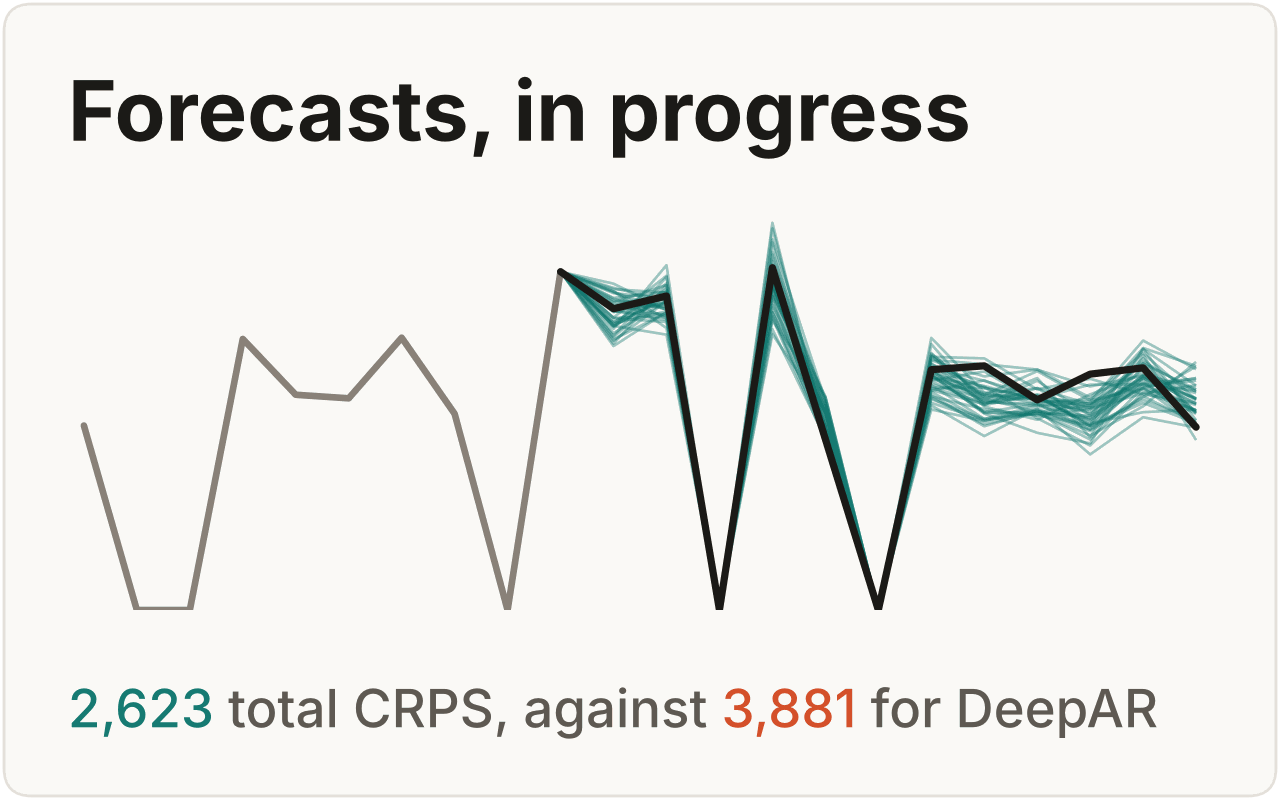
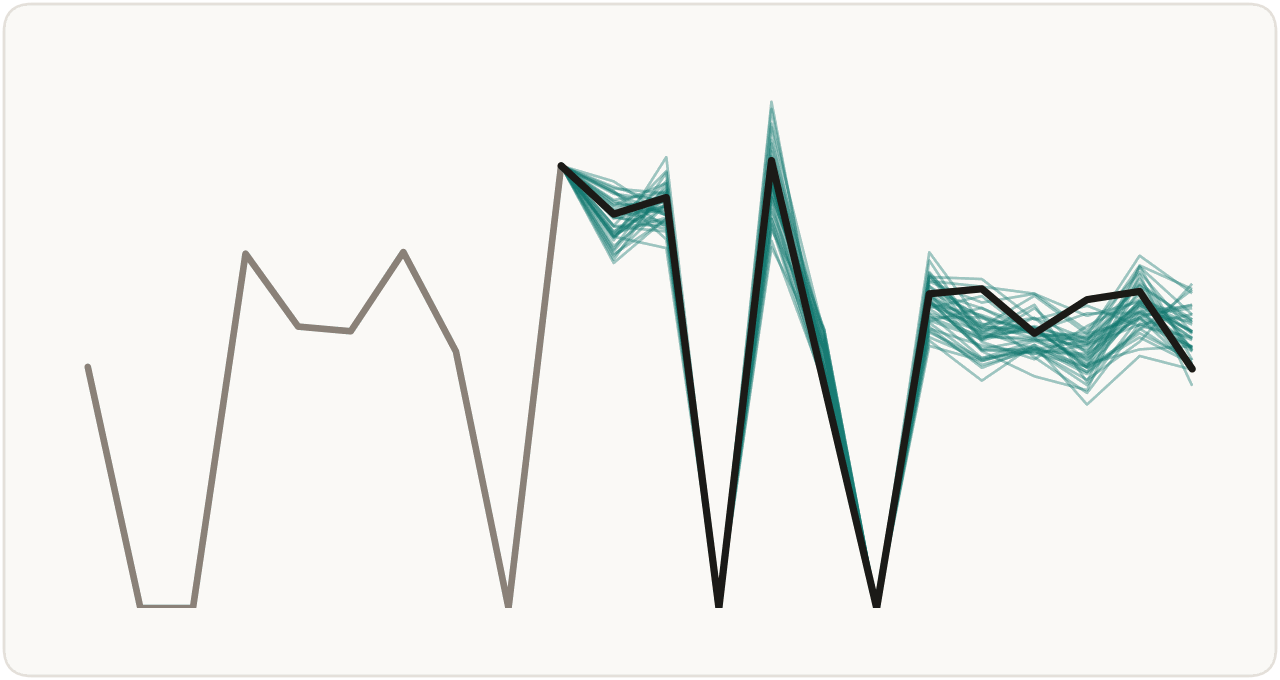
README figures: text-free gallery thumbnails, teal lit path, CRPS in the shapes footer
From the fresh-eyes review of the assembled README:
- Gallery thumbnails no longer bake in a title and a number. The gallery's link
  text and caption already carry both, readable on a phone; baked text
  repeated them at about 10 px. The mark gets the whole card (6.4 x 3.4 in).
- The architecture diagram lights its path in teal, since clay marks a
  baseline in every other figure.
- The shapes footer scores claims by CRPS (0.538 against 0.576). The NLL there
  mostly measured how narrow the head makes the spike at fixed amounts.

Claude-Session: https://claude.ai/code/session_01Ut1RAiHeEN9bUy93D2Wya3

diff --git a/examples/readme/style.py b/examples/readme/style.py
@@ -71,7 +71,7 @@ ARTIFACTS = Path(__file__).resolve().parent / "artifacts"
 
 DPI = 200
 WIDTH = 13.8  # inches; GitHub shows a full-width figure at about a third of its pixels
-THUMB_SIZE = (6.4, 4.0)
+THUMB_SIZE = (6.4, 3.4)
 MAX_BYTES = 450_000
 
 
@@ -170,8 +170,6 @@ class Fonts:
     panel: FontProperties
     mono: FontProperties
     mono_bold: FontProperties
-    thumb_label: FontProperties
-    thumb_value: FontProperties
 
 
 F: Fonts | None = None
@@ -197,8 +195,6 @@ def setup() -> Fonts:
         panel=font("SemiBold", 15),
         mono=font("Regular", 12.5, mono=True),
         mono_bold=font("SemiBold", 12.5, mono=True),
-        thumb_label=font("Bold", 30),
-        thumb_value=font("Medium", 19),
     )
     plt.rcParams.update(
         {
@@ -559,10 +555,13 @@ def stacks(mass, courses: int = 12):
 
 
 def thumb(slug: str, label: str, number: list | str, draw_fn, *, out: Path | None = None):
-    """A gallery thumbnail: the core mark only, a three-word ``label``, and one number against the baseline.
+    """A gallery thumbnail: the core mark only, on the card, with no text.
 
-    ``number`` is plain text or rich segments ``[(text, color), ...]``; ``draw_fn(ax)`` draws the mark in
-    the space left. Written to ``docs/images/readme/thumbs/<slug>.png``.
+    ``label`` (about three words) and ``number`` (the result against the baseline, plain text or rich
+    segments ``[(text, color), ...]``) record what the thumbnail stands for. They are not drawn: the
+    gallery prints its link text and caption under the image, where they stay readable on a phone,
+    so baked-in text would only repeat them at a tenth of the size. ``draw_fn(ax)`` draws the mark.
+    Written to ``docs/images/readme/thumbs/<slug>.png``.
     """
     setup()
     w, h = THUMB_SIZE
@@ -571,12 +570,8 @@ def thumb(slug: str, label: str, number: list | str, draw_fn, *, out: Path | Non
     fig.add_artist(FancyBboxPatch((0.02, 0.02), w - 0.04, h - 0.04, boxstyle="round,pad=0,rounding_size=0.14",
                                   transform=fig.dpi_scale_trans, facecolor=CARD, edgecolor=HAIR, linewidth=1.0,
                                   zorder=-100))
-    fig.text(0.34 / w, 1 - 0.3 / h, label, fontproperties=F.thumb_label, color=INK, ha="left", va="top")
-    if isinstance(number, str):
-        fig.text(0.34 / w, 0.3 / h, number, fontproperties=F.thumb_value, color=MUTED, ha="left", va="bottom")
-    else:
-        rich(fig, 0.34 / w, 0.3 / h, [(t, c, F.thumb_value) for t, c in number], va="bottom")
-    ax = fig.add_axes([0.34 / w, 0.95 / h, 1 - 0.68 / w, 1 - 1.95 / h])
+    pad = 0.36
+    ax = fig.add_axes([pad / w, pad / h, 1 - 2 * pad / w, 1 - 2 * pad / h])
     style(ax, frame="")
     ax.set_xticks([])
     ax.set_yticks([])

diff --git a/examples/architecture.py b/examples/architecture.py
@@ -3,8 +3,9 @@
 A model is one set of keyword arguments, and its label says what was observed.
 The diagram lays them out as courses of stone blocks, one course per slot plus
 one for the label, and lights the path that the code under it picks. Colors
-follow the logo: clay for the lit path, teal for the heads that return a
-distribution and the labels that need one, pale stone for the rest.
+follow the README's figures, where teal is Ashlar's own and clay a baseline: the
+lit path is solid teal, the heads that return a distribution and the labels that
+need one are outlined in teal, and the rest is pale stone.
 
     python examples/architecture.py
 
@@ -27,7 +28,6 @@ INK = "#1b1a17"
 MUTED = "#5f5a52"
 FLOOR = "#e9e4dc"
 STONE = "#f3efe8"
-CLAY = "#d4502a"
 TEAL = "#147a72"
 
 CH = 7.3  # px per character of the 12px mono label
@@ -122,7 +122,7 @@ COURSES = [
 ]
 
 CODE = [
-    [("ASRRegressor", CLAY), ("(", MUTED)],
+    [("ASRRegressor", INK), ("(", MUTED)],
     [("    num_embeddings", INK), ("=", MUTED), ('"piecewise"', TEAL), (",", MUTED)],
     [("    backbone", INK), ("=", MUTED), ('"additive"', TEAL), (",", MUTED)],
     [("    task", INK), ("=", MUTED), ('"negative_binomial"', TEAL), (",", MUTED)],
@@ -148,8 +148,8 @@ def _escape(text: str) -> str:
 
 
 def _block(x: float, y: float, w: float, label: str, lit: bool, accent: bool) -> list[str]:
-    fill = CLAY if lit else STONE
-    stroke = CLAY if lit else (TEAL if accent else FLOOR)
+    fill = TEAL if lit else STONE
+    stroke = TEAL if lit else (TEAL if accent else FLOOR)
     text = "#ffffff" if lit else (TEAL if accent else MUTED)
     weight = 500 if lit else 400
     parts = [
@@ -226,7 +226,7 @@ def draw(theme: str) -> str:
             else f"M{px:.1f} {py + BH:.1f}V{cy:.1f}"
         )
     out.append(
-        f'<path d="{"".join(path)}" fill="none" stroke="{CLAY}" stroke-width="2" stroke-opacity="0.55"/>'
+        f'<path d="{"".join(path)}" fill="none" stroke="{TEAL}" stroke-width="2" stroke-opacity="0.55"/>'
     )
 
     for row in rows:

diff --git a/examples/readme/shapes.py b/examples/readme/shapes.py
@@ -402,8 +402,8 @@ def draw():
         f"{k.pct(bike['negative_binomial']['coverage80'])} against {k.pct(bike['lightgbm_poisson_nb']['coverage80'])} "
         f"for LightGBM's Poisson mean with one dispersion fitted on validation "
         f"({k.pct(bike['lightgbm_poisson']['coverage80'])} for the Poisson alone); CRPS "
-        f"{bike['negative_binomial']['crps']:.1f} against {bike['lightgbm_poisson_nb']['crps']:.1f}. Claims: NLL "
-        f"of the log cost {s['mixture']['nll']:.3f} against {s['catboost_uncertainty']['nll']:.3f} for CatBoost "
+        f"{bike['negative_binomial']['crps']:.1f} against {bike['lightgbm_poisson_nb']['crps']:.1f}. Claims: CRPS "
+        f"of the log cost {s['mixture']['crps']:.3f} against {s['catboost_uncertainty']['crps']:.3f} for CatBoost "
         f"RMSEWithUncertainty. Homes: CRPS {c['mixture']['crps']:.3f} against {c['lightgbm_normal']['crps']:.3f} "
         f"for LightGBM's mean with a constant normal, the better of the two trees here.",
     )
